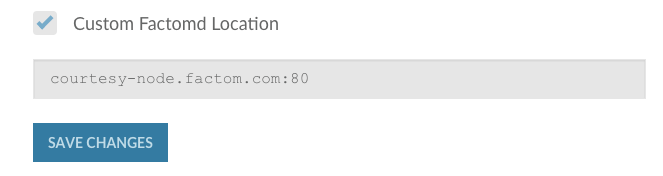
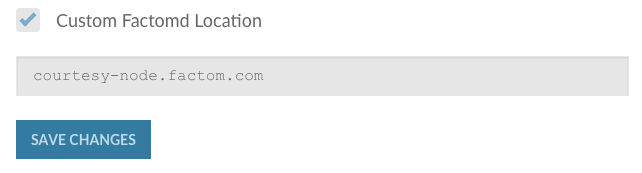
updated courtesy node URL & screenshot #2
updated courtesy node screenshot #2

Changed region(s): [[0.0, 0.3179, 0.9969, 0.578], [0.0, 0.6936, 0.2804, 0.9249], [0.0, 0.0289, 0.4361, 0.2023]]

diff --git a/wallet/includes/_run-enterprise-wallet.md b/wallet/includes/_run-enterprise-wallet.md
@@ -46,7 +46,7 @@ The first thing to do is to change the factomd node the wallet is pointing to. G
 
 ![Online Wallet 2](images/wallet_092.png)
 
-Now click "Custom Factomd Location" and enter in a valid factomd instance. Use: courtesy-node.factom.com:80 (copy and paste the address in the text field).
+Now click "Custom Factomd Location" and enter in a valid factomd instance. Use: courtesy-node.factom.com (copy and paste the address in the text field).
 
 ![Online Wallet 2](images/wallet_093.png)
 
